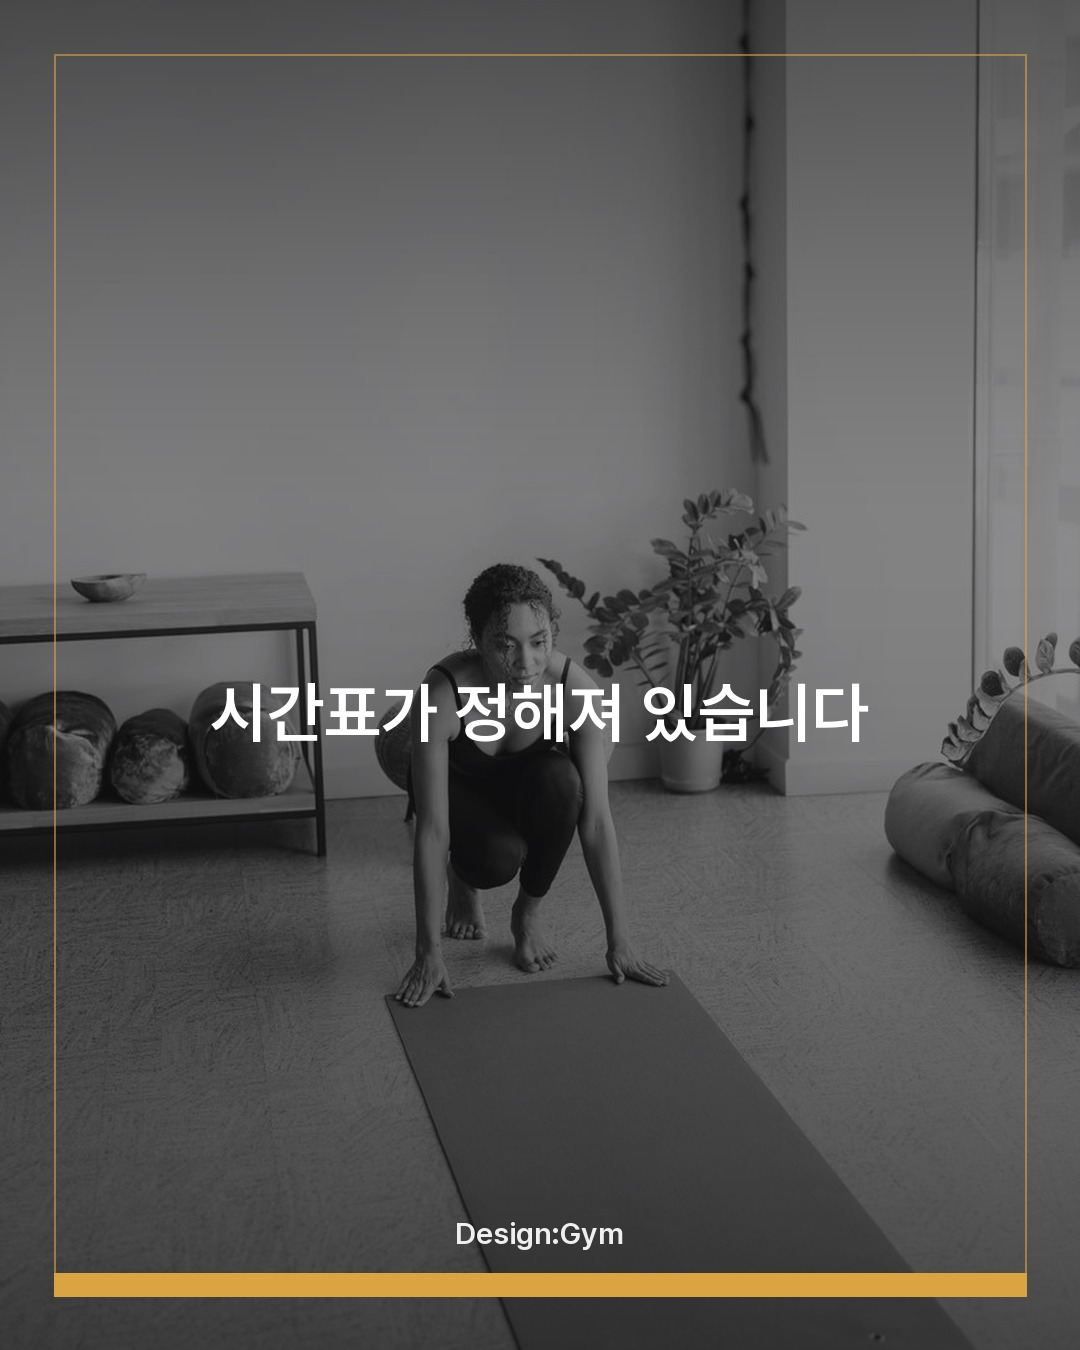
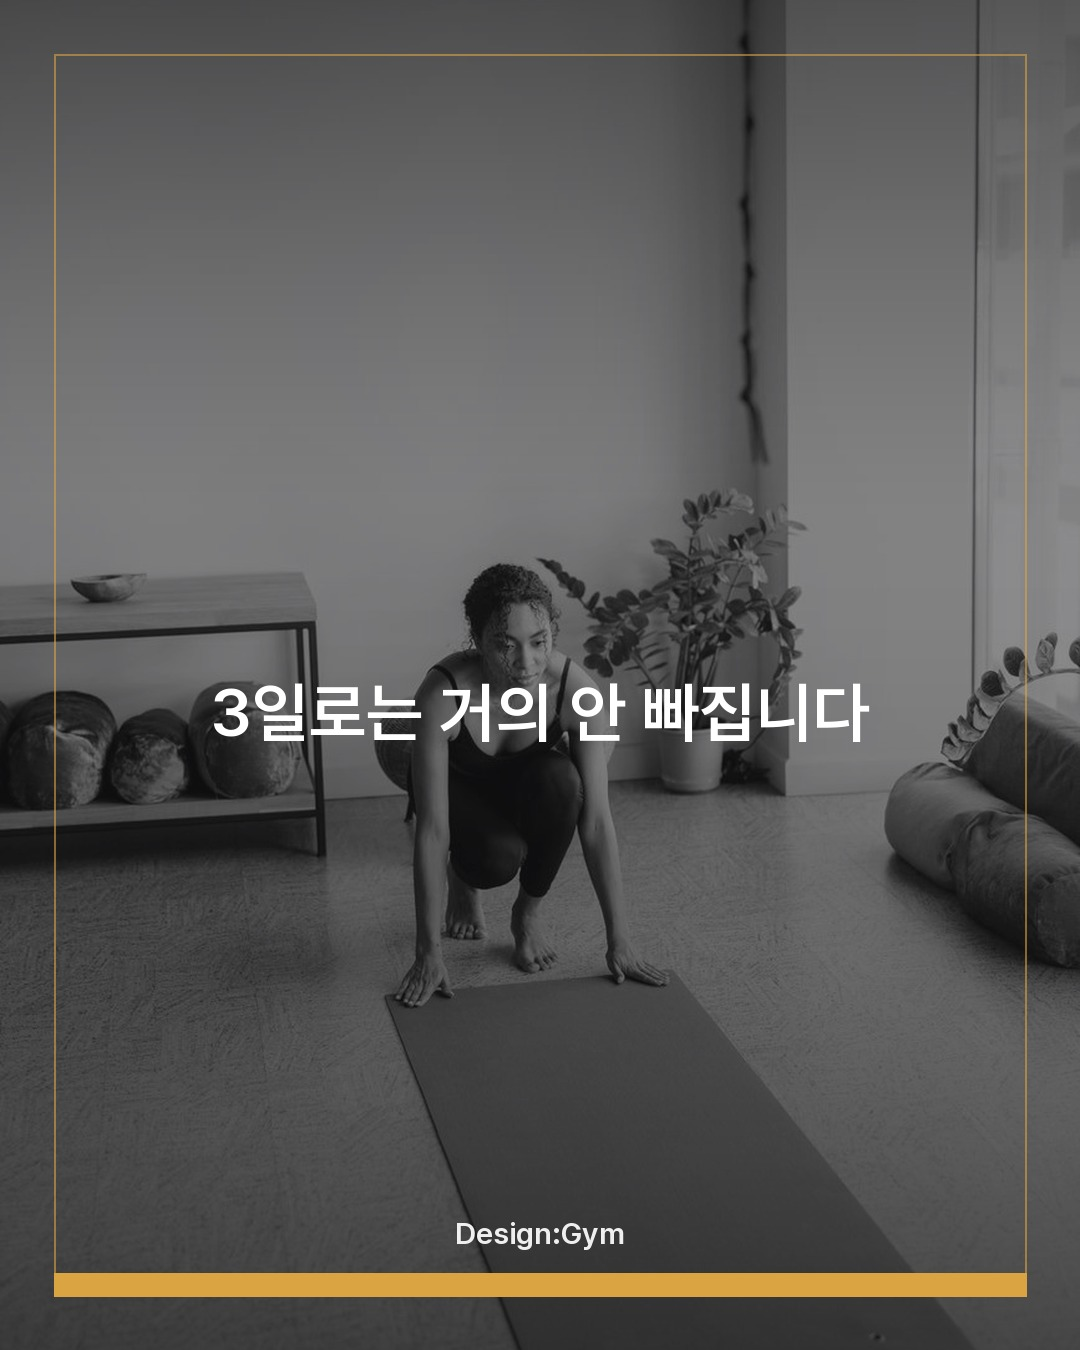
📝 사장계정 2026-08-31 주간 원고 교체 (반려분 → 검색 질문형 주제 3건)
- 운동 3일 쉬면 근력 빠질까요 / 아침 운동이 저녁보다 나을까요 / 스쿼트 무릎 발끝 넘어도 됩니다
- RULES 7-7(표지 두 줄 각각 주어·대상), 7-8(주제는 질문에서 선정) 추가

Changed region(s): [[0.1833, 0.4978, 0.7028, 0.56], [0.5194, 0.9022, 0.5806, 0.9333]]

diff --git a/RULES_CEO_CAROUSEL.md b/RULES_CEO_CAROUSEL.md
@@ -156,3 +156,22 @@
 | `top` | 위 붙여 사진 아래를 비움 | 2~3줄 |
 
 같은 캐러셀에서 같은 layout을 연속으로 쓰지 않는다. `big`은 표지와 혼동되기 쉬우니 배지를 넣거나 표지와 붙여 쓰지 않는다.
+
+**7-7. 표지 두 줄 각각에 주어와 대상이 있어야 한다** (2026-08-31 사장 반려)
+
+- ✗ "매일 해야 하나요 / 주 2회면 됩니다" — 뭘 매일 하는지, 뭐가 주 2회인지 없다
+- ✗ "3일 쉬면 / 근력 빠질까요" — 뭘 3일 쉬는지 없다
+- ✓ "운동 3일 쉬면 / 근력 빠질까요"
+- ✓ "아침 운동이 / 저녁보다 나을까요" — 주어(아침 운동)와 비교 대상(저녁)이 둘 다 있다
+- ✓ "스쿼트할 때 무릎 / 발끝 넘어도 됩니다"
+
+읽는 사람은 앞 슬라이드도 캡션도 안 본 상태로 표지 한 장만 본다.
+표지에 없는 정보는 없는 것이다. 글자수를 줄이려고 주어를 빼지 않는다.
+
+**7-8. 주제는 "내가 발견한 사실"이 아니라 "사람들이 하는 질문"에서 고른다** (2026-08-31 사장 반려)
+
+조사 재고에서 고르면 논문 기준으로 주제가 뽑혀 "알아도 내일 뭘 다르게 할지 없는" 글이 된다.
+검색창에 실제로 치는 질문 형태인지 먼저 확인할 것.
+
+- ✗ 근육통이 젖산 때문인가 / 유연성은 왜 늘어나나 / 러닝과 사망률
+- ✓ 운동 며칠 쉬면 근력 빠지나 / 아침이 나은가 저녁이 나은가 / 무릎이 발끝을 넘어도 되나

diff --git a/weeks/topics_used.md b/weeks/topics_used.md
@@ -12,13 +12,16 @@
 | 2026-08-25 | 운동 전 정적 스트레칭의 적정 시간 | 운동 전 스트레칭은 / 꼭 이렇게 하세요 |
 | 2026-08-27 | 운동 습관 형성 기간 | 운동 습관 만들려면 / 주 4회씩 6주 |
 | 2026-08-29 | 러닝 부상 예측 인자 | 러닝 부상 없이 / 즐기는 법 |
-| 2026-09-01 | 지연성 근육통(DOMS)의 경과와 기전 | 근육통 며칠 가는지 / 미리 알아두세요 |
-| 2026-09-03 | 유연성 증가의 기전(감각 적응) | 유연해지는 건 / 근육보다 감각입니다 |
-| 2026-09-05 | 러닝과 사망률 | 주 50분만 뛰어도 / 얻는 게 있습니다 |
+| 2026-09-01 | 단기 운동 중단과 근력 유지(디트레이닝) | 운동 3일 쉬면 / 근력 빠질까요 |
+| 2026-09-03 | 아침 vs 저녁 운동, 시간 고정의 효과 | 아침 운동이 / 저녁보다 나을까요 |
+| 2026-09-05 | 스쿼트 무릎 전방 이동 제한의 부하 이동 | 스쿼트할 때 무릎 / 발끝 넘어도 됩니다 |
 
 ---
 
 ## 조사 완료, 미사용 (2026-08-19 자료 수집분)
+
+⚠ 2026-08-31: 아래 재고에서 3건(근육통·유연성 원리·러닝과 사망률)을 골라 썼다가 **전량 반려**됐다.
+"조사한 사실"이지 "사람들이 하는 질문"이 아니어서다. 재고는 참고용이고, 주제는 검색 질문 형태로 먼저 잡을 것 (규칙 7-8).
 
 바로 쓸 수 있다. 출처와 연구 한계까지 확인된 상태.
 
